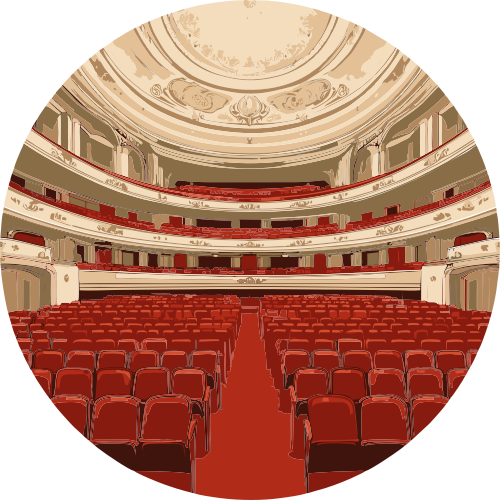
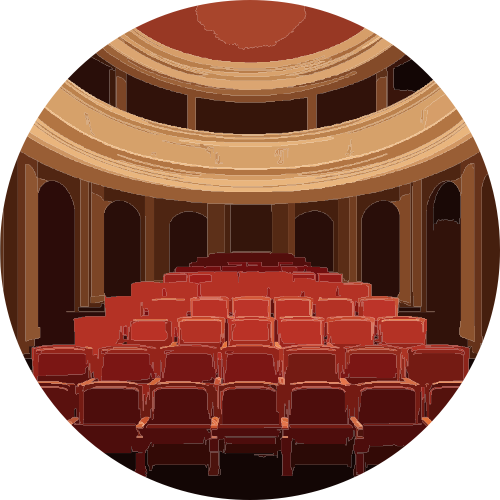
Update assets

diff --git a/README.md b/README.md
@@ -1746,6 +1746,145 @@ Spring
 ## Cities
 
 <p align="center">
+   <img src="cities/dublin-theme/icon.png" alt="Codigrate Dublin" width="160">
+</p>
+
+<h1 align="center">
+Dublin
+</h1>
+
+## Description
+
+Inspired by Dublin on a bright morning, this light theme rests on a fresh park green base, then lights it with shamrock green and the orange of the autumn trees around the castle tower. The soft green surface keeps long sessions easy on the eyes while the green and orange accents mark what matters.
+
+## Color Palette
+
+<table>
+   <tr>
+      <td><img src="https://codigrate.com/util/color/F1F9F3.png?width=30&height=30"></td>
+      <td>Ha'penny White</td>
+      <td>#F1F9F3</td>
+   </tr>
+   <tr>
+      <td><img src="https://codigrate.com/util/color/D3F3DB.png?width=30&height=30"></td>
+      <td>Liffey Mist</td>
+      <td>#D3F3DB</td>
+   </tr>
+   <tr>
+      <td><img src="https://codigrate.com/util/color/AAE4B8.png?width=30&height=30"></td>
+      <td>Lawn Mist</td>
+      <td>#AAE4B8</td>
+   </tr>
+   <tr>
+      <td><img src="https://codigrate.com/util/color/A0E3B1.png?width=30&height=30"></td>
+      <td>Morning Sky</td>
+      <td>#A0E3B1</td>
+   </tr>
+   <tr>
+      <td><img src="https://codigrate.com/util/color/6CC682.png?width=30&height=30"></td>
+      <td>Castle Sky</td>
+      <td>#6CC682</td>
+   </tr>
+   <tr>
+      <td><img src="https://codigrate.com/util/color/169B62.png?width=30&height=30"></td>
+      <td>Tricolour Green</td>
+      <td>#169B62</td>
+   </tr>
+   <tr>
+      <td><img src="https://codigrate.com/util/color/1F9140.png?width=30&height=30"></td>
+      <td>Shamrock Green</td>
+      <td>#1F9140</td>
+   </tr>
+   <tr>
+      <td><img src="https://codigrate.com/util/color/F08C2E.png?width=30&height=30"></td>
+      <td>Maple Glow</td>
+      <td>#F08C2E</td>
+   </tr>
+   <tr>
+      <td><img src="https://codigrate.com/util/color/1B6B3A.png?width=30&height=30"></td>
+      <td>Stephen's Green</td>
+      <td>#1B6B3A</td>
+   </tr>
+   <tr>
+      <td><img src="https://codigrate.com/util/color/3B564C.png?width=30&height=30"></td>
+      <td>Tower Shade</td>
+      <td>#3B564C</td>
+   </tr>
+   <tr>
+      <td><img src="https://codigrate.com/util/color/0F2E1A.png?width=30&height=30"></td>
+      <td>Black Pool</td>
+      <td>#0F2E1A</td>
+   </tr>
+   <tr>
+      <td><img src="https://codigrate.com/util/color/E26B03.png?width=30&height=30"></td>
+      <td>Autumn Blaze</td>
+      <td>#E26B03</td>
+   </tr>
+   <tr>
+      <td><img src="https://codigrate.com/util/color/CF6106.png?width=30&height=30"></td>
+      <td>Tricolour Orange</td>
+      <td>#CF6106</td>
+   </tr>
+   <tr>
+      <td><img src="https://codigrate.com/util/color/BD7135.png?width=30&height=30"></td>
+      <td>Autumn Haze</td>
+      <td>#BD7135</td>
+   </tr>
+   <tr>
+      <td><img src="https://codigrate.com/util/color/A34C08.png?width=30&height=30"></td>
+      <td>Copper Leaf</td>
+      <td>#A34C08</td>
+   </tr>
+   <tr>
+      <td><img src="https://codigrate.com/util/color/FACA73.png?width=30&height=30"></td>
+      <td>Path Gold</td>
+      <td>#FACA73</td>
+   </tr>
+   <tr>
+      <td><img src="https://codigrate.com/util/color/A38063.png?width=30&height=30"></td>
+      <td>Milky Coffee</td>
+      <td>#A38063</td>
+   </tr>
+   <tr>
+      <td><img src="https://codigrate.com/util/color/8A6A4B.png?width=30&height=30"></td>
+      <td>Turf Haze</td>
+      <td>#8A6A4B</td>
+   </tr>
+   <tr>
+      <td><img src="https://codigrate.com/util/color/654E1A.png?width=30&height=30"></td>
+      <td>Hedge Bark</td>
+      <td>#654E1A</td>
+   </tr>
+   <tr>
+      <td><img src="https://codigrate.com/util/color/7D7166.png?width=30&height=30"></td>
+      <td>Warm Stone</td>
+      <td>#7D7166</td>
+   </tr>
+   <tr>
+      <td><img src="https://codigrate.com/util/color/2F86C8.png?width=30&height=30"></td>
+      <td>Dublin Sky</td>
+      <td>#2F86C8</td>
+   </tr>
+   <tr>
+      <td><img src="https://codigrate.com/util/color/4CBB17.png?width=30&height=30"></td>
+      <td>Kelly Green</td>
+      <td>#4CBB17</td>
+   </tr>
+   <tr>
+      <td><img src="https://codigrate.com/util/color/D6A03A.png?width=30&height=30"></td>
+      <td>Harvest Gold</td>
+      <td>#D6A03A</td>
+   </tr>
+   <tr>
+      <td><img src="https://codigrate.com/util/color/C5453E.png?width=30&height=30"></td>
+      <td>Temple Bar Red</td>
+      <td>#C5453E</td>
+   </tr>
+</table>
+
+---
+
+<p align="center">
    <img src="cities/istanbul-theme/icon.png" alt="Codigrate Istanbul" width="160">
 </p>
 
@@ -1883,6 +2022,145 @@ Inspired by the soft daylight and sea breezes of Istanbul, this theme blends cal
       <td><img src="https://codigrate.com/util/color/CA4236.png?width=30&height=30"></td>
       <td>Deep Kilim</td>
       <td>#CA4236</td>
+   </tr>
+</table>
+
+---
+
+<p align="center">
+   <img src="cities/london-theme/icon.png" alt="Codigrate London" width="160">
+</p>
+
+<h1 align="center">
+London
+</h1>
+
+## Description
+
+Inspired by London at dusk, this dark theme rests on a slate grey base washed with twilight indigo, then lights it with the pillar box red of a K6 telephone box and the muted steel blue of the Thames. The calm grey surface keeps long sessions easy on the eyes while the red accents mark what matters.
+
+## Color Palette
+
+<table>
+   <tr>
+      <td><img src="https://codigrate.com/util/color/17161D.png?width=30&height=30"></td>
+      <td>Coal Ink</td>
+      <td>#17161D</td>
+   </tr>
+   <tr>
+      <td><img src="https://codigrate.com/util/color/201F29.png?width=30&height=30"></td>
+      <td>Dusk Slate</td>
+      <td>#201F29</td>
+   </tr>
+   <tr>
+      <td><img src="https://codigrate.com/util/color/2D2B36.png?width=30&height=30"></td>
+      <td>Fog Indigo</td>
+      <td>#2D2B36</td>
+   </tr>
+   <tr>
+      <td><img src="https://codigrate.com/util/color/3B3A45.png?width=30&height=30"></td>
+      <td>Portland Shadow</td>
+      <td>#3B3A45</td>
+   </tr>
+   <tr>
+      <td><img src="https://codigrate.com/util/color/494757.png?width=30&height=30"></td>
+      <td>Kerb Grey</td>
+      <td>#494757</td>
+   </tr>
+   <tr>
+      <td><img src="https://codigrate.com/util/color/7C7A90.png?width=30&height=30"></td>
+      <td>Pavement Grey</td>
+      <td>#7C7A90</td>
+   </tr>
+   <tr>
+      <td><img src="https://codigrate.com/util/color/6B6F8A.png?width=30&height=30"></td>
+      <td>Drizzle Grey</td>
+      <td>#6B6F8A</td>
+   </tr>
+   <tr>
+      <td><img src="https://codigrate.com/util/color/8790AE.png?width=30&height=30"></td>
+      <td>Slate Blue</td>
+      <td>#8790AE</td>
+   </tr>
+   <tr>
+      <td><img src="https://codigrate.com/util/color/A9ADC2.png?width=30&height=30"></td>
+      <td>Fog Grey</td>
+      <td>#A9ADC2</td>
+   </tr>
+   <tr>
+      <td><img src="https://codigrate.com/util/color/B9BFD8.png?width=30&height=30"></td>
+      <td>Chalk Blue</td>
+      <td>#B9BFD8</td>
+   </tr>
+   <tr>
+      <td><img src="https://codigrate.com/util/color/DDDFEA.png?width=30&height=30"></td>
+      <td>Portland Stone</td>
+      <td>#DDDFEA</td>
+   </tr>
+   <tr>
+      <td><img src="https://codigrate.com/util/color/422429.png?width=30&height=30"></td>
+      <td>Brick Shadow</td>
+      <td>#422429</td>
+   </tr>
+   <tr>
+      <td><img src="https://codigrate.com/util/color/9A6B78.png?width=30&height=30"></td>
+      <td>Clay Brick</td>
+      <td>#9A6B78</td>
+   </tr>
+   <tr>
+      <td><img src="https://codigrate.com/util/color/D42A44.png?width=30&height=30"></td>
+      <td>Pillar Crimson</td>
+      <td>#D42A44</td>
+   </tr>
+   <tr>
+      <td><img src="https://codigrate.com/util/color/EE4B5B.png?width=30&height=30"></td>
+      <td>Kiosk Red</td>
+      <td>#EE4B5B</td>
+   </tr>
+   <tr>
+      <td><img src="https://codigrate.com/util/color/D06A73.png?width=30&height=30"></td>
+      <td>Post Rose</td>
+      <td>#D06A73</td>
+   </tr>
+   <tr>
+      <td><img src="https://codigrate.com/util/color/E88790.png?width=30&height=30"></td>
+      <td>Brick Rose</td>
+      <td>#E88790</td>
+   </tr>
+   <tr>
+      <td><img src="https://codigrate.com/util/color/5D89B0.png?width=30&height=30"></td>
+      <td>Steel Blue</td>
+      <td>#5D89B0</td>
+   </tr>
+   <tr>
+      <td><img src="https://codigrate.com/util/color/7FA3C6.png?width=30&height=30"></td>
+      <td>Thames Steel</td>
+      <td>#7FA3C6</td>
+   </tr>
+   <tr>
+      <td><img src="https://codigrate.com/util/color/9BB6CE.png?width=30&height=30"></td>
+      <td>Mist Blue</td>
+      <td>#9BB6CE</td>
+   </tr>
+   <tr>
+      <td><img src="https://codigrate.com/util/color/D93A3F.png?width=30&height=30"></td>
+      <td>Signal Red</td>
+      <td>#D93A3F</td>
+   </tr>
+   <tr>
+      <td><img src="https://codigrate.com/util/color/D9A441.png?width=30&height=30"></td>
+      <td>Lamp Amber</td>
+      <td>#D9A441</td>
+   </tr>
+   <tr>
+      <td><img src="https://codigrate.com/util/color/5B9BD5.png?width=30&height=30"></td>
+      <td>Beacon Blue</td>
+      <td>#5B9BD5</td>
+   </tr>
+   <tr>
+      <td><img src="https://codigrate.com/util/color/6FB98F.png?width=30&height=30"></td>
+      <td>Park Green</td>
+      <td>#6FB98F</td>
    </tr>
 </table>
 
